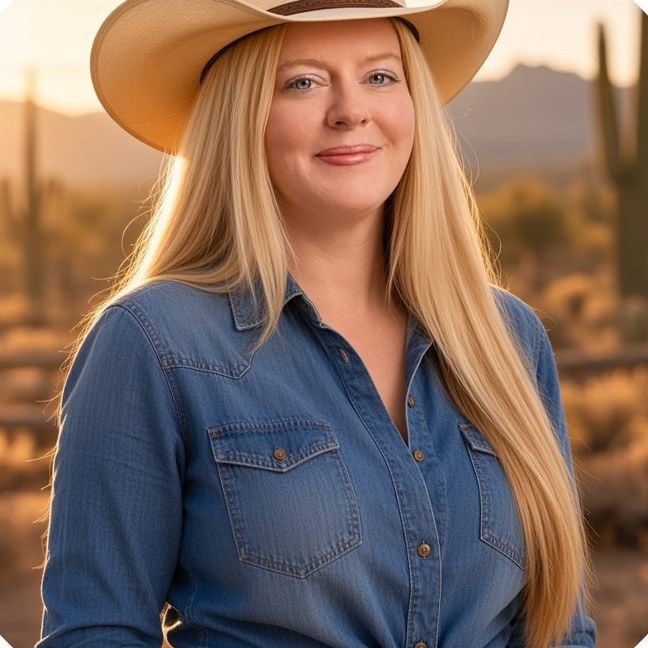
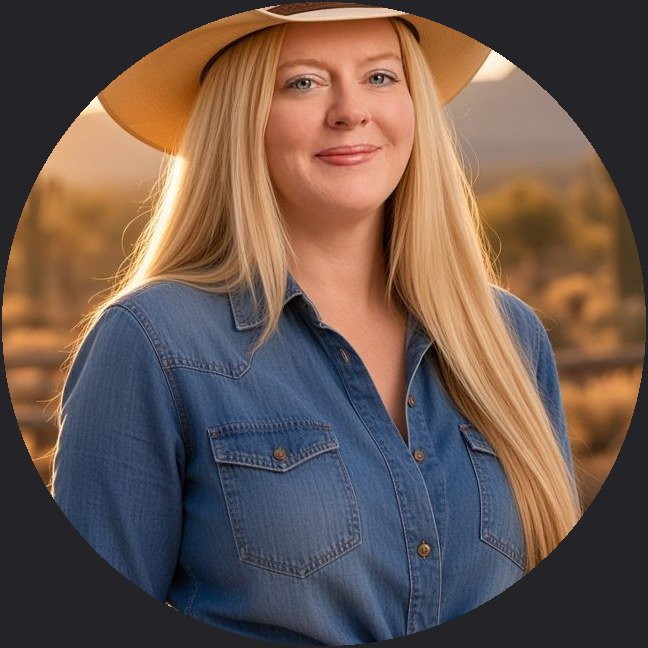
Date Me: add photo gallery, dark corners on cowgirl portrait

Changed region(s): [[0.5247, 0.0, 1.0, 1.0], [0.0, 0.0, 0.4938, 1.0]]

diff --git a/date-me.html b/date-me.html
@@ -16,7 +16,7 @@ img.slot{width:100%;height:auto;object-fit:cover;display:block}
 ul{padding-left:1.2rem}li{margin:.45rem 0}strong{color:var(--strong)}
 .cta{display:inline-block;margin-top:1rem;padding:.9rem 1.6rem;background:var(--accent);color:#1A1A1D;font-weight:600;text-decoration:none;border-radius:4px}
 footer{margin-top:3rem;padding-top:1.2rem;border-top:1px solid var(--border)}footer a{color:var(--accent)}
-</style></head><body><main class="wrap">
+.gallery{display:grid;grid-template-columns:repeat(auto-fill,minmax(11rem,1fr));gap:1rem;margin:1.4rem 0 0}.gallery img{width:100%;aspect-ratio:3/4;object-fit:cover;display:block;border:2px solid var(--border);border-radius:4px}</style></head><body><main class="wrap">
 <p class="meta">♥ SECRET LEVEL UNLOCKED ⌁</p>
 <h1>Date Emily.</h1>
 <p class="lede">Librarian brain. Builder hands. Big content energy. You found the hidden page, which already tells her you're curious. Good. Keep going.</p>
@@ -51,5 +51,7 @@ footer{margin-top:3rem;padding-top:1.2rem;border-top:1px solid var(--border)}foo
 <p>Worst case, you sent a nice message to a librarian. Best case, you found your player two.</p>
 <a class="cta" href="https://x.com/messages/compose?recipient_id=1511311269764161536" target="_blank" rel="noopener">♥ DM Emily on X</a>
 
+<h2>More of Emily</h2>
+<div class="gallery"><img src="images/dateme-03.jpg" alt="Emily smiling in a royal blue blouse with long blonde hair against a light background" loading="lazy"><img src="images/dateme-04.jpg" alt="Emily in a black wide-brim hat and black shirt with a turquoise bolo tie" loading="lazy"><img src="images/dateme-05.jpg" alt="Emily lying on a colorful blanket with her blonde hair spread out, smiling" loading="lazy"><img src="images/dateme-06.jpg" alt="Emily with long copper-red hair and pink lipstick, smiling" loading="lazy"><img src="images/dateme-07.jpg" alt="Emily making a playful kissy face with long blonde hair" loading="lazy"><img src="images/dateme-08.jpg" alt="Emily taking a mirror selfie in a cap and workout clothes, waving" loading="lazy"><img src="images/dateme-09.jpg" alt="Emily in a red sweater in her garage gym, flashing a rock-on sign" loading="lazy"><img src="images/dateme-10.jpg" alt="Emily peeking out from behind an ornate gold mirror frame" loading="lazy"></div>
 <footer><a href="/">← Back to Big Content Energy</a></footer>
 </main></body></html>
